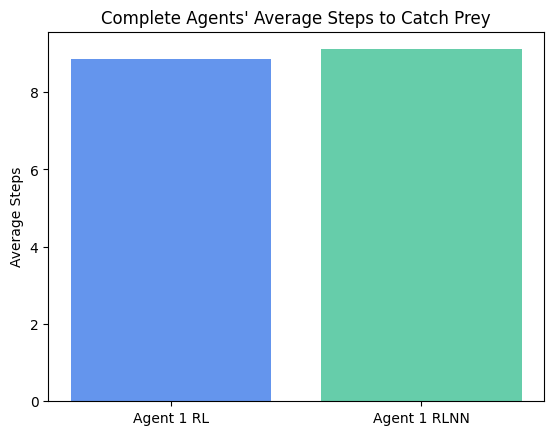
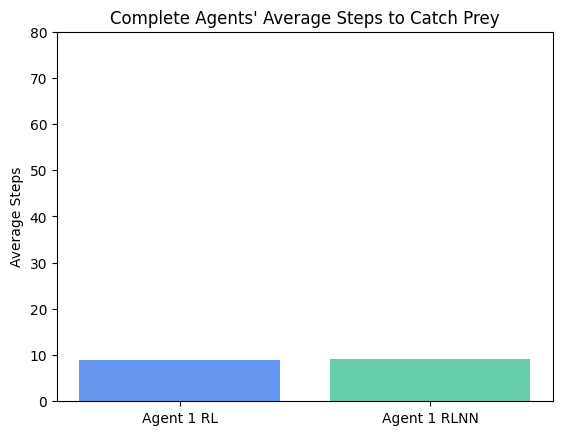
set y axis

diff --git a/visualize_statistics.py b/visualize_statistics.py
@@ -100,7 +100,7 @@ def visualize_step_counts(dirname, filename):
     plt.title(f'{setting.title()} Agents\' Average Steps to Catch Prey')
     axes.set_xticks(x_pos)
     axes.set_xticklabels(agents)
-    # plt.gca().set_ylim(bottom=0, top=105)
+    plt.gca().set_ylim(bottom=0, top=80)
     plt.ylabel('Average Steps')
 
     # save the bar graph
